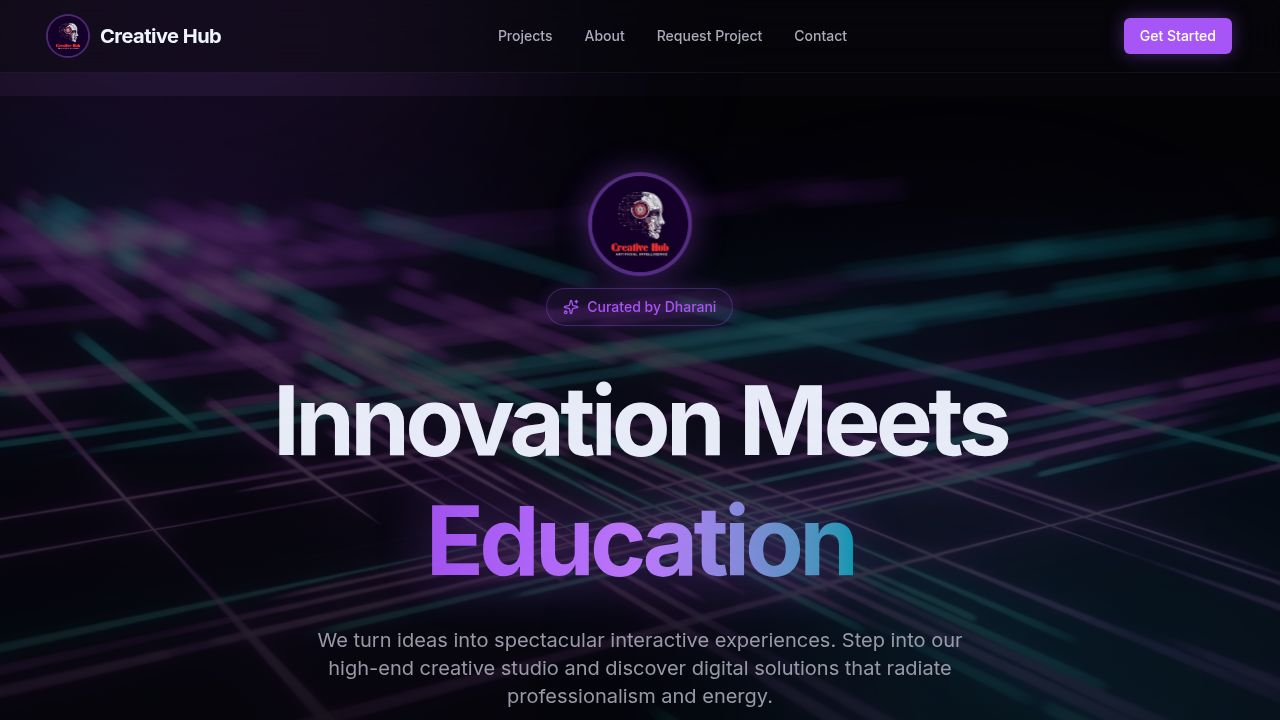
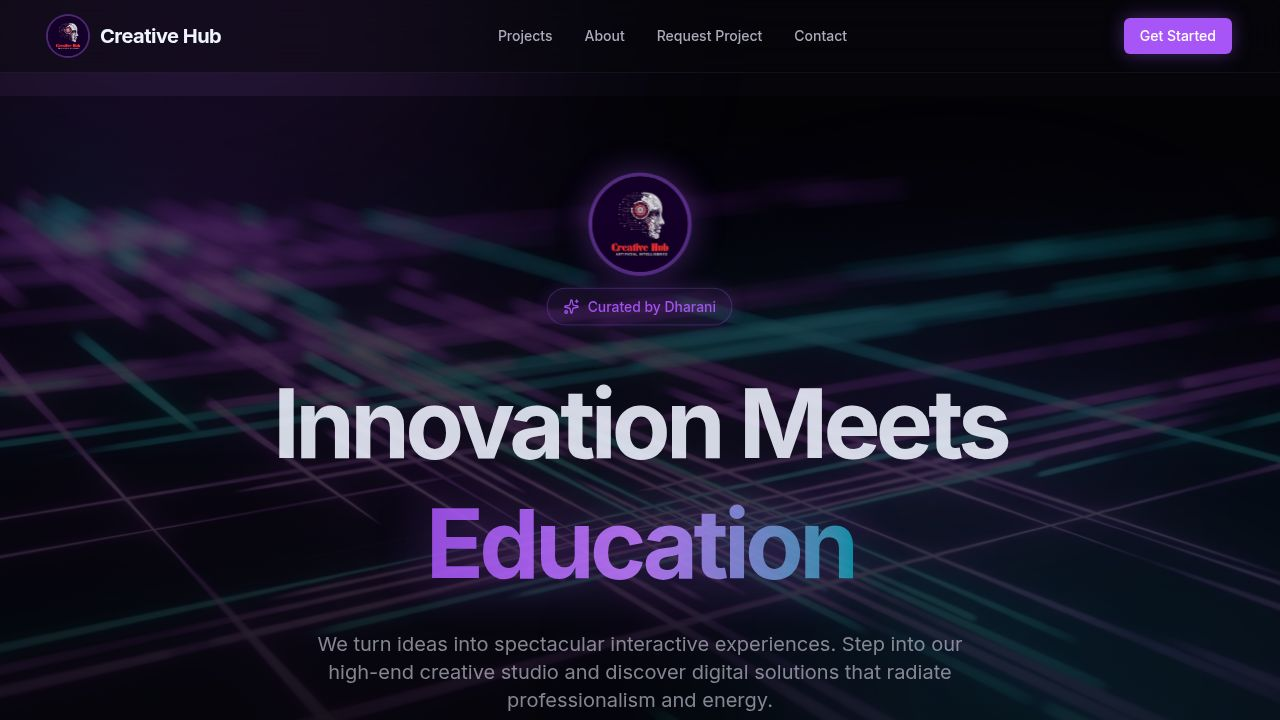
Integrate direct email sending for project submissions
Replaces the backend API contact form submission with EmailJS, utilizing environment variables for service IDs, template IDs, and public keys to send project details directly to a specified email address.

Replit-Commit-Author: Agent
Replit-Commit-Session-Id: 0aa1266d-8679-4456-a582-491559effd69
Replit-Commit-Checkpoint-Type: full_checkpoint
Replit-Commit-Event-Id: fec7e9da-d23c-403f-a861-937a8af708f5
Replit-Commit-Screenshot-Url: https://storage.googleapis.com/screenshot-production-us-central1/c82e680f-a3ae-4818-9e39-ee5438ee6749/0aa1266d-8679-4456-a582-491559effd69/bcn90qO
Replit-Helium-Checkpoint-Created: true

diff --git a/artifacts/creative-hub/src/App.tsx b/artifacts/creative-hub/src/App.tsx
@@ -3,6 +3,7 @@ import { motion, useScroll, useTransform } from "framer-motion";
 import { Mail, Phone, ArrowRight, Sparkles, Zap, Brain, Globe, CheckCircle2, ClipboardList, Layers, Cpu, Smartphone, Globe2, Layout } from "lucide-react";
 import { Button } from "@/components/ui/button";
 import logoImg from "@assets/IMG-20260412-WA0110_1776010236262.jpg";
+import emailjs from "@emailjs/browser";
 
 const fadeIn = {
   initial: { opacity: 0, y: 20 },
@@ -105,29 +106,26 @@ function ProjectForm() {
     setSending(true);
     setError(null);
     try {
-      const res = await fetch("/api/contact", {
-        method: "POST",
-        headers: { "Content-Type": "application/json" },
-        body: JSON.stringify({
-          name: form.name,
-          email: form.email,
-          phone: form.phone,
-          orgName: form.orgName,
-          projectTitle: form.projectTitle,
-          projectType: selectedType,
-          howItWorks: form.howItWorks,
-          features: selectedFeatures.join(", "),
-          additionalNotes: form.additionalNotes,
-        }),
-      });
-      const data = await res.json() as { success?: boolean; error?: string };
-      if (!res.ok || !data.success) {
-        setError(data.error ?? "Something went wrong. Please try again.");
-      } else {
-        setSubmitted(true);
-      }
+      await emailjs.send(
+        import.meta.env.VITE_EMAILJS_SERVICE_ID as string,
+        import.meta.env.VITE_EMAILJS_TEMPLATE_ID as string,
+        {
+          from_name: form.name,
+          from_email: form.email,
+          phone: form.phone || "Not provided",
+          org_name: form.orgName || "Not provided",
+          project_title: form.projectTitle,
+          project_type: selectedType || "Not specified",
+          how_it_works: form.howItWorks,
+          features: selectedFeatures.join(", ") || "None specified",
+          notes: form.additionalNotes || "None",
+          to_email: "[email redacted]",
+        },
+        import.meta.env.VITE_EMAILJS_PUBLIC_KEY as string,
+      );
+      setSubmitted(true);
     } catch {
-      setError("Network error. Please check your connection and try again.");
+      setError("Failed to send. Please check your connection and try again.");
     } finally {
       setSending(false);
     }